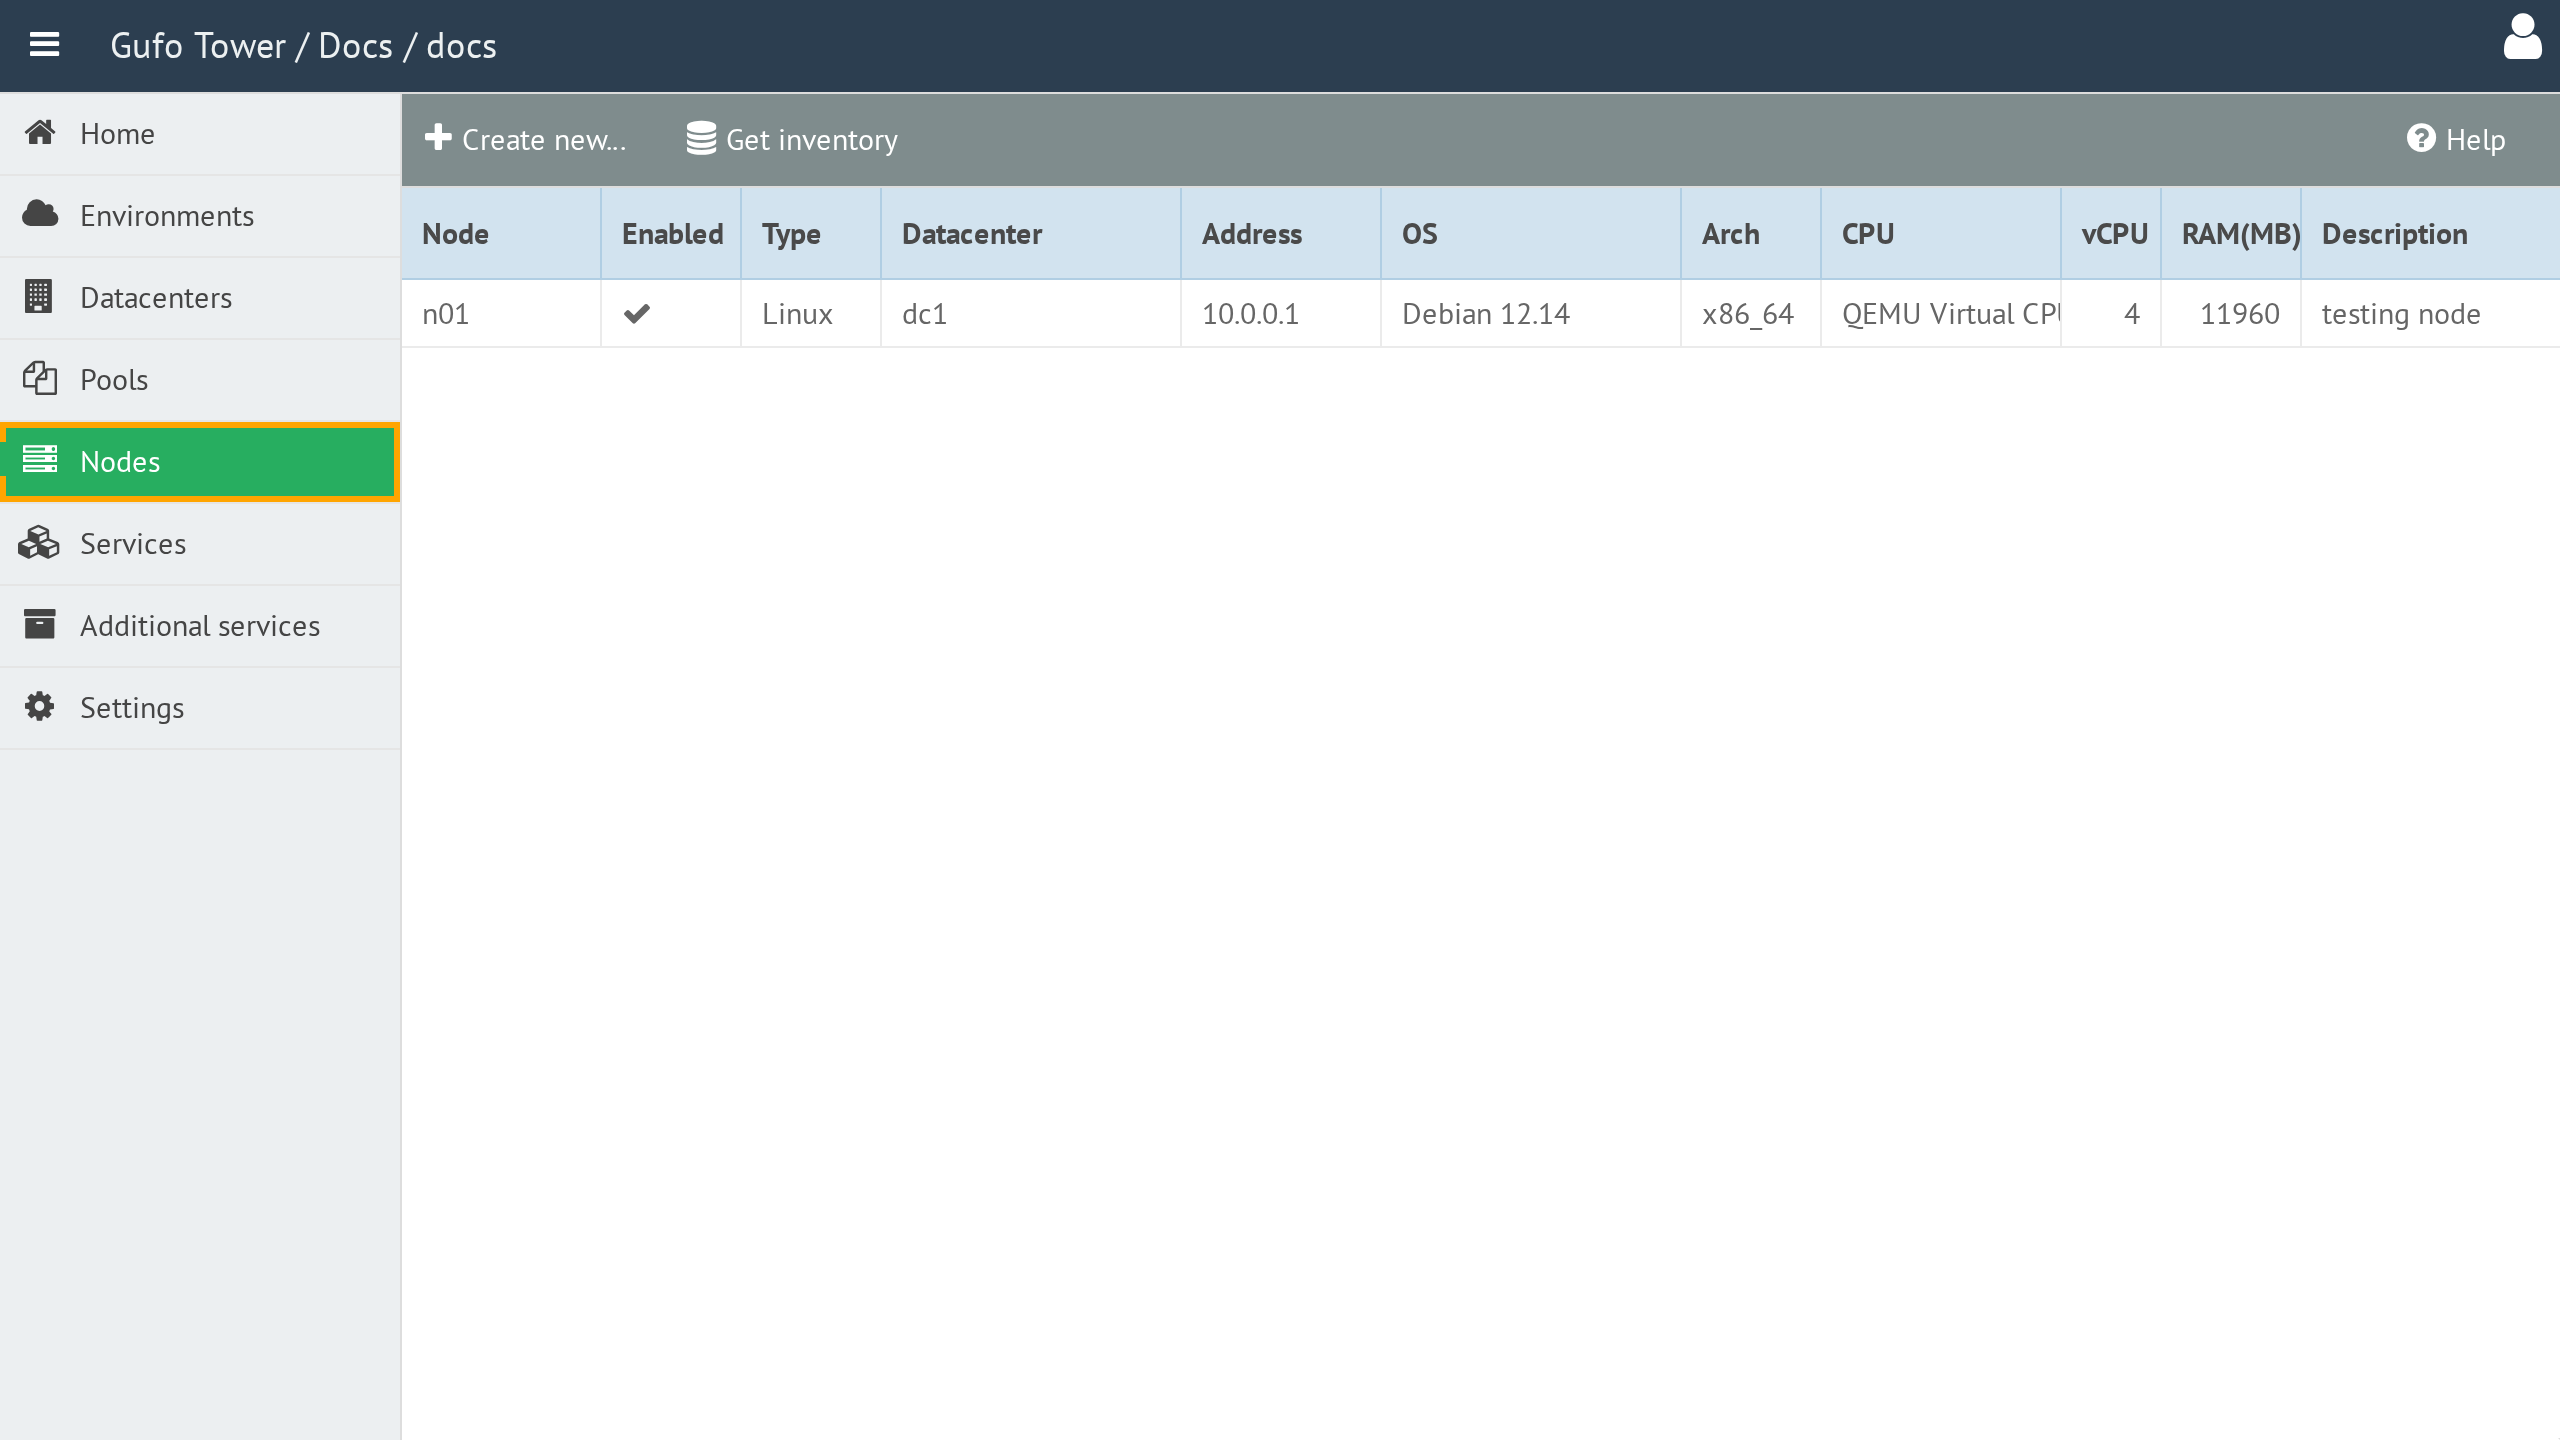
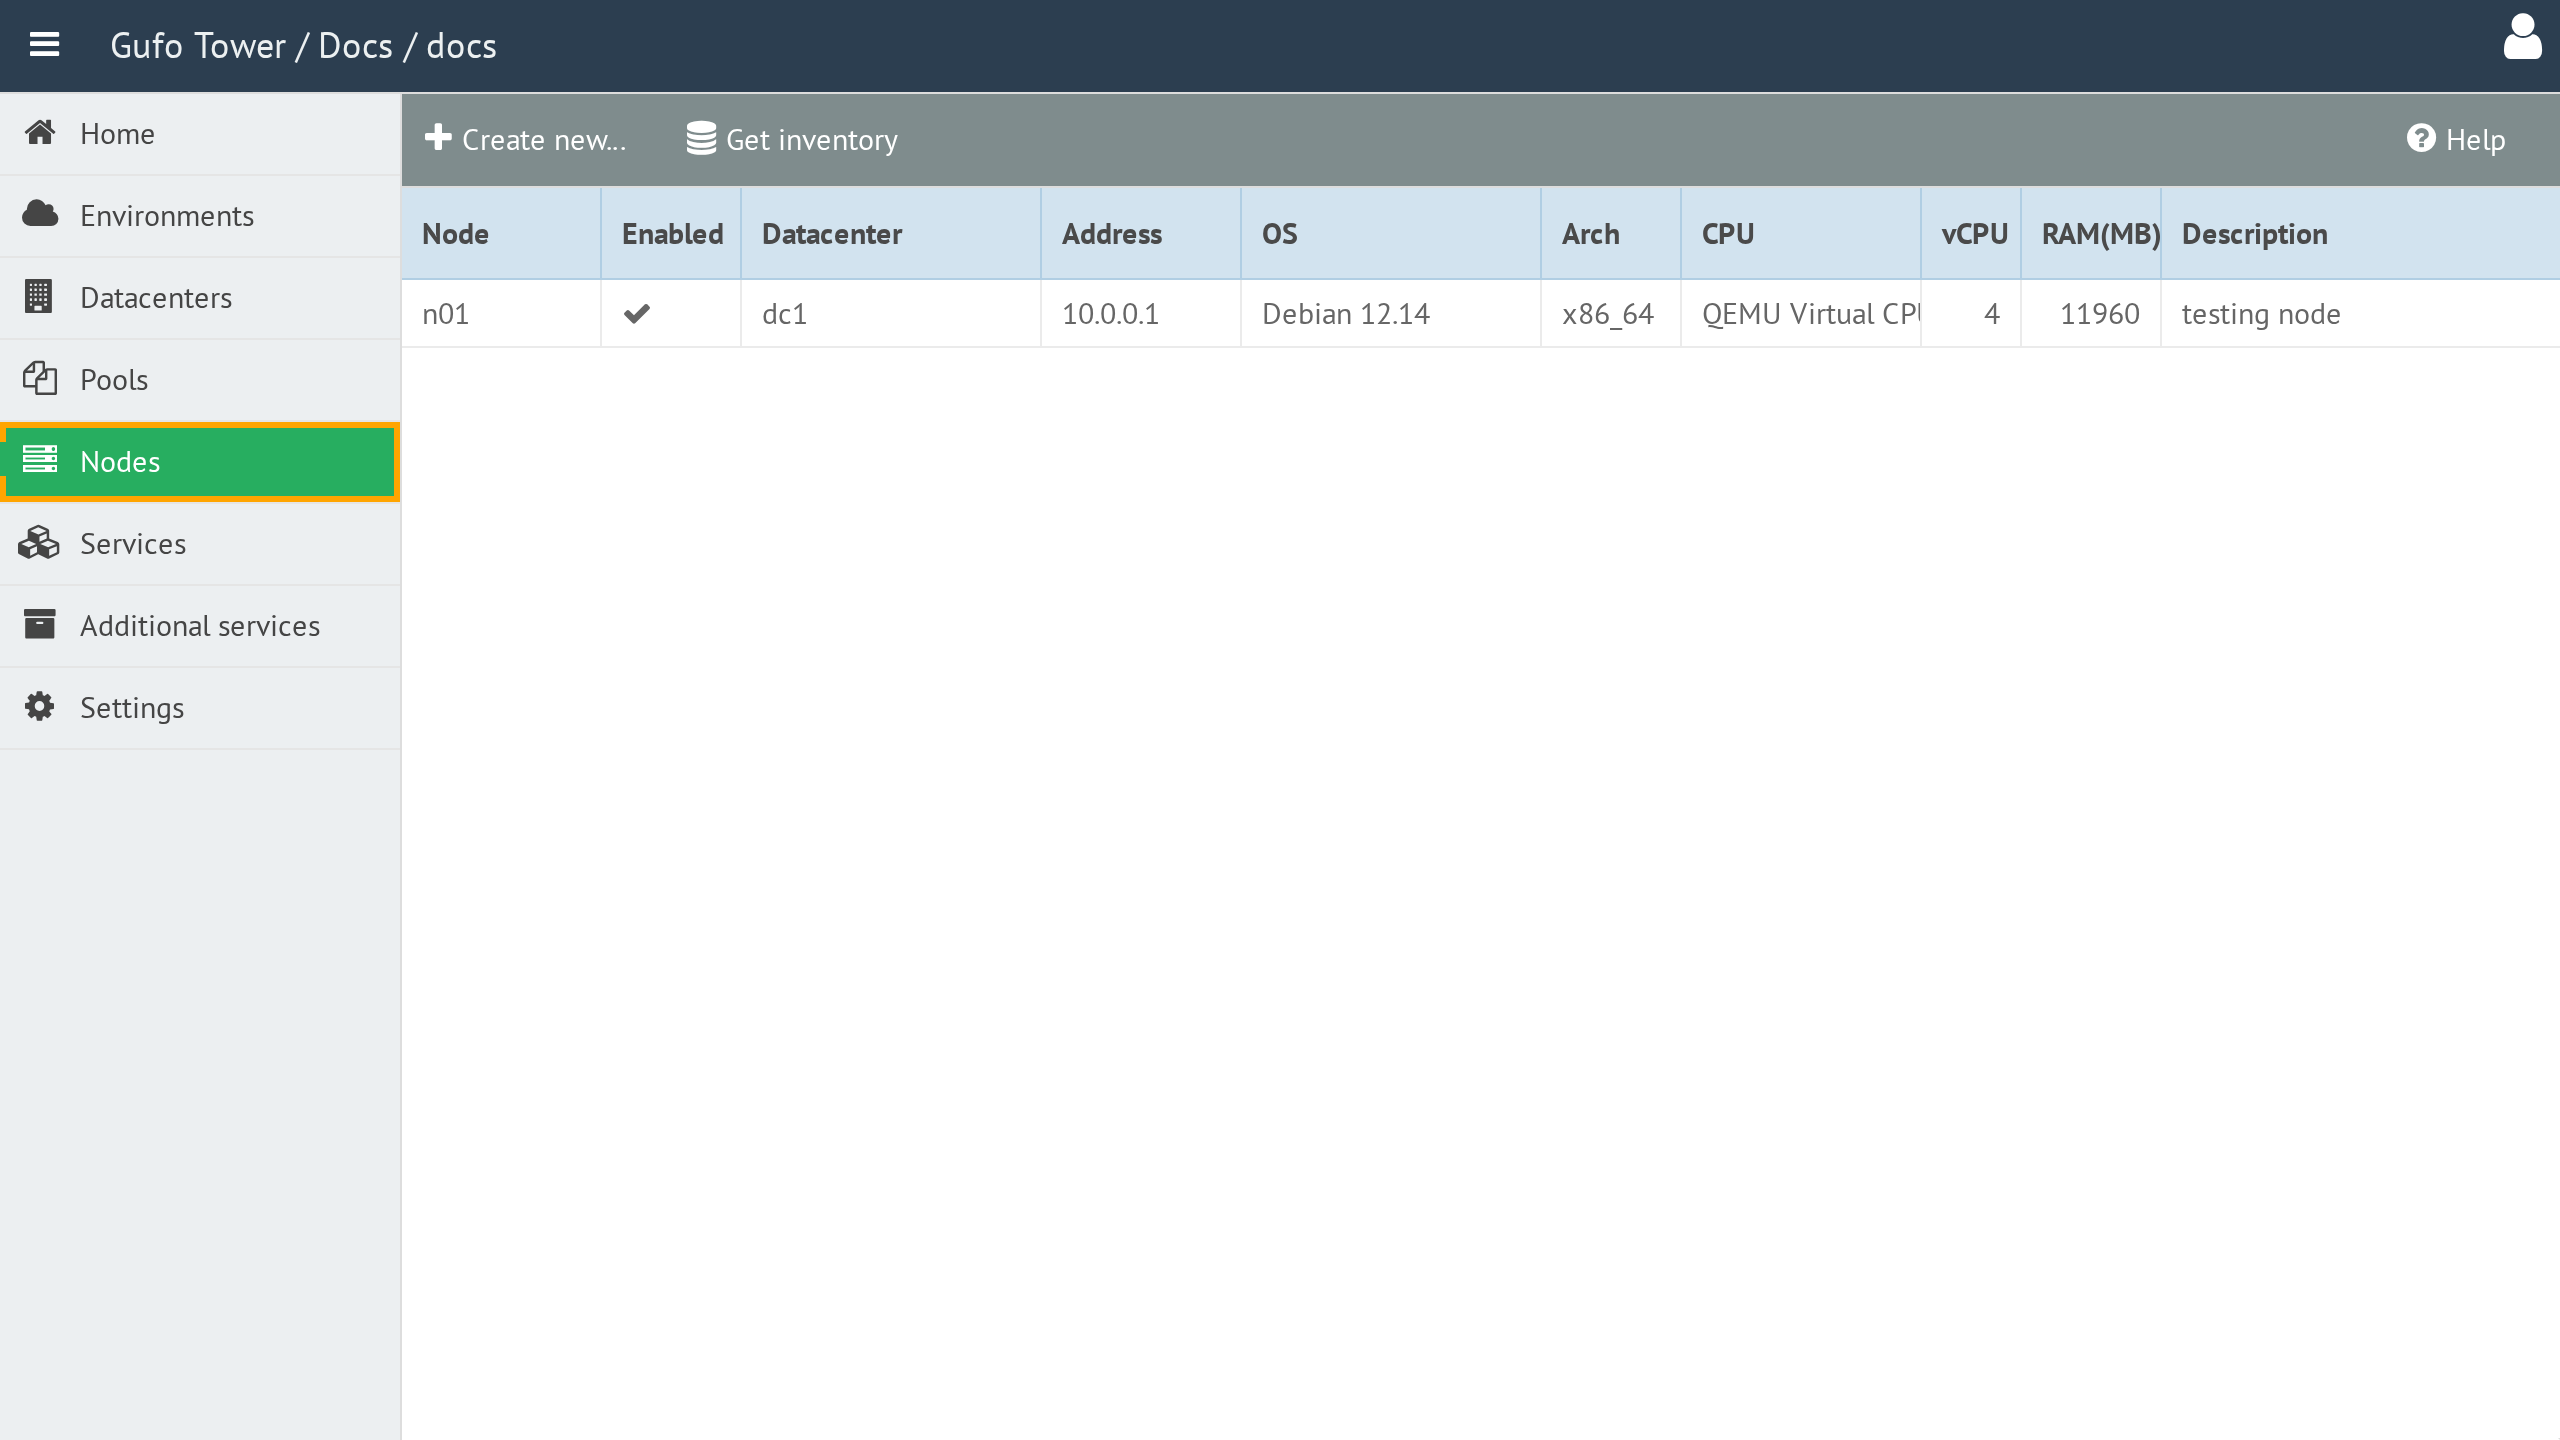
Split Node.address to .address and .port (#144)

diff --git a/src/ui/node/form/ui.js b/src/ui/node/form/ui.js
@@ -101,7 +101,8 @@ export const node_form = {
                                 view: "select",
                                 name: "node_type",
                                 label: "Node Type",
-                                required: true
+                                required: true,
+                                width: 250
                             },
                             {
                                 view: "text",
@@ -111,7 +112,17 @@ export const node_form = {
                                 bottomLabel: "Will be placed to /etc/hosts",
                                 required: true,
                                 invalidMessage: "Node address have to be valid address.",
-                                validate: Tower.rules.regex(/^(?!0)(?!.*\.$)((1?\d?\d|25[0-5]|2[0-4]\d)(\.|$)){4}$/)
+                                validate: Tower.rules.regex(/^(?!0)(?!.*\.$)((1?\d?\d|25[0-5]|2[0-4]\d)(\.|$)){4}$/),
+                                width: 270
+                            },
+                            {
+                                view: "text",
+                                name: "port",
+                                label: "Port",
+                                value: 22,
+                                width: 180,
+                                inputmode: "numeric",
+                                validate: Tower.rules.regex(/^\d{1,5}$/)
                             },
                             {
                                 view: "text",

diff --git a/src/ui/node/list/ui.js b/src/ui/node/list/ui.js
@@ -71,12 +71,6 @@ export const node_list = {
                     format: Tower.format.check
                 },
                 {
-                    id: "node_type",
-                    header: "Type",
-                    width: 70,
-                    format: Tower.format.lookup
-                },
-                {
                     id: "datacenter",
                     header: "Datacenter",
                     width: 150,

diff --git a/src/gufo/tower/models/node.py b/src/gufo/tower/models/node.py
@@ -22,12 +22,17 @@ from .db import db
 from .environment import Environment
 from .nodetype import NodeType
 
+DEFAULT_PORT = 22
+
 
 class Node(Model):
     class Meta:
         database = db
         table_name = "node"
-        indexes = ((("environment", "datacenter", "name"), True),)
+        indexes = (
+            (("environment", "datacenter", "name"), True),
+            (("address", "port"), True),
+        )
 
     environment = ForeignKeyField(Environment, on_delete="RESTRICT")
     datacenter = ForeignKeyField(Datacenter, on_delete="RESTRICT")
@@ -37,6 +42,7 @@ class Node(Model):
     # Ansible settings
     # Node address or address:port
     address = CharField()
+    port = IntegerField(default=DEFAULT_PORT)
     login_as = CharField()
     is_enabled = BooleanField(default=True)
     # Inventory information
@@ -64,6 +70,7 @@ class Node(Model):
             "name": self.name,
             "description": self.description,
             "address": self.address,
+            "port": self.port or DEFAULT_PORT,
             "login_as": self.login_as,
             # Inventory info
             "arch": self.arch,
@@ -78,16 +85,6 @@ class Node(Model):
 
     def get_vars(self):
         return self.node_type.get_vars()
-
-    def get_address(self):
-        """Returns node addess."""
-        return str(self.address.split(":")[0])
-
-    def get_ssh_port(self):
-        """Returns node ssh port."""
-        if ":" in self.address:
-            return int(self.address.split(":")[1])
-        return 22
 
     def delete_instance(self, *args, **kwargs):
         from .service import Service

diff --git a/src/gufo/tower/migrations/046_node_split_address.py b/src/gufo/tower/migrations/046_node_split_address.py
@@ -1,0 +1,35 @@
+# ----------------------------------------------------------------------
+# 044_node_split_address
+# ----------------------------------------------------------------------
+# Copyright (C) 2015-2026 Gufo Labs
+# See LICENSE for details
+# ----------------------------------------------------------------------
+
+# Third-party modules
+from peewee import CharField, IntegerField, Model
+
+# Gufo Tower Modules
+from gufo.tower.models.migration import Migrator
+
+
+def migrate(migrator: Migrator) -> None:
+    class Node(Model):
+        class Meta:
+            database = migrator.db
+            table_name = "node"
+
+        address = CharField()
+
+    migrator.add_column("node", "port", IntegerField(default=22))
+    for node in Node.select():
+        if ":" in node.address:
+            address, port = node.address.rsplit(":", 1)
+            port = int(port)
+        else:
+            address = node.address
+            port = 22
+        migrator.execute_sql(
+            "UPDATE node SET address = ?, port = ? WHERE id = ?",
+            (address, port, node.id),
+        )
+    migrator.add_index("node", ("address", "port"), unique=True)

diff --git a/tests/orm/test_service.py b/tests/orm/test_service.py
@@ -203,11 +203,13 @@ def test_same_service_different_node(isolated_fixture) -> None:
         environment=environment,
         datacenter=datacenter,
         name="node1",
+        address="192.168.2.1",
     )
     node2 = create_node(
         environment=environment,
         datacenter=datacenter,
         name="node2",
+        address="192.168.2.2",
     )
 
     service1 = create_service(
@@ -266,12 +268,10 @@ def test_same_service_different_environment(isolated_fixture) -> None:
     datacenter2 = create_datacenter(name="orm-service-datacenter-2")
 
     node1 = create_node(
-        environment=environment1,
-        datacenter=datacenter1,
+        environment=environment1, datacenter=datacenter1, address="192.168.2.1"
     )
     node2 = create_node(
-        environment=environment2,
-        datacenter=datacenter2,
+        environment=environment2, datacenter=datacenter2, address="192.168.3.1"
     )
 
     service1 = create_service(

diff --git a/tests/orm/test_node.py b/tests/orm/test_node.py
@@ -174,12 +174,14 @@ def test_same_name_different_datacenter(isolated_fixture) -> None:
         datacenter=datacenter1,
         node_type=node_type,
         name="same",
+        address="192.168.2.1",
     )
     node2 = create_node(
         environment=environment,
         datacenter=datacenter2,
         node_type=node_type,
         name="same",
+        address="192.168.3.1",
     )
 
     assert node1.id != node2.id
@@ -197,12 +199,14 @@ def test_same_name_different_environment(isolated_fixture) -> None:
         datacenter=datacenter,
         node_type=node_type,
         name="same",
+        address="192.168.2.1",
     )
     node2 = create_node(
         environment=environment2,
         datacenter=datacenter,
         node_type=node_type,
         name="same",
+        address="192.168.3.1",
     )
 
     assert node1.id != node2.id

diff --git a/src/gufo/tower/models/environment.py b/src/gufo/tower/models/environment.py
@@ -142,8 +142,8 @@ class Environment(Model):
         for node in nodes:
             r["nodes"]["hosts"] += [node.name]
             hostvars = {
-                "ansible_host": node.get_address(),
-                "ansible_port": node.get_ssh_port(),
+                "ansible_host": node.address,
+                "ansible_port": node.port,
                 "ansible_user": node.login_as,
                 "ansible_python_interpreter": node.node_type.python_interpreter,
                 "ansible_ssh_private_key_file": str(self.ssh_priv_key_path),

diff --git a/docs/user-guide/node/list.md b/docs/user-guide/node/list.md
@@ -10,7 +10,6 @@ The list contains the following columns:
 | --- | --- |
 | **Node** | Node name. The name must be unique within the Datacenter. |
 | **Enabled** | Indicates whether the Node is enabled. Deployment is not performed on disabled Nodes. |
-| **Type** | Node type. See [Node Types](node-types.md) for details. |
 | **Datacenter** | Datacenter where the Node is located. See [Datacenters](../datacenter/index.md) for details. |
 | **Address** | Management address of the Node. This address is used by Gufo Tower to access the Node for deployment and for communication between Nodes. |
 | **OS** | Installed operating system. |

diff --git a/docs/user-guide/node/form.md b/docs/user-guide/node/form.md
@@ -28,11 +28,17 @@ A detailed, human-readable description of the Node.
 
 The type of the Node. See [Node Types](node-types.md) for details.
 
-## API Address
+## Address
 
 The IP address used to access the Node.
 
 This address is written to the `hosts` file and is used by Gufo Tower to access the Node for deployment and for communication between Nodes.
+
+## Port
+
+The SSH port used by Gufo Tower to access the Node for provisioning.
+
+The default port is 22.
 
 ## Login User
 
